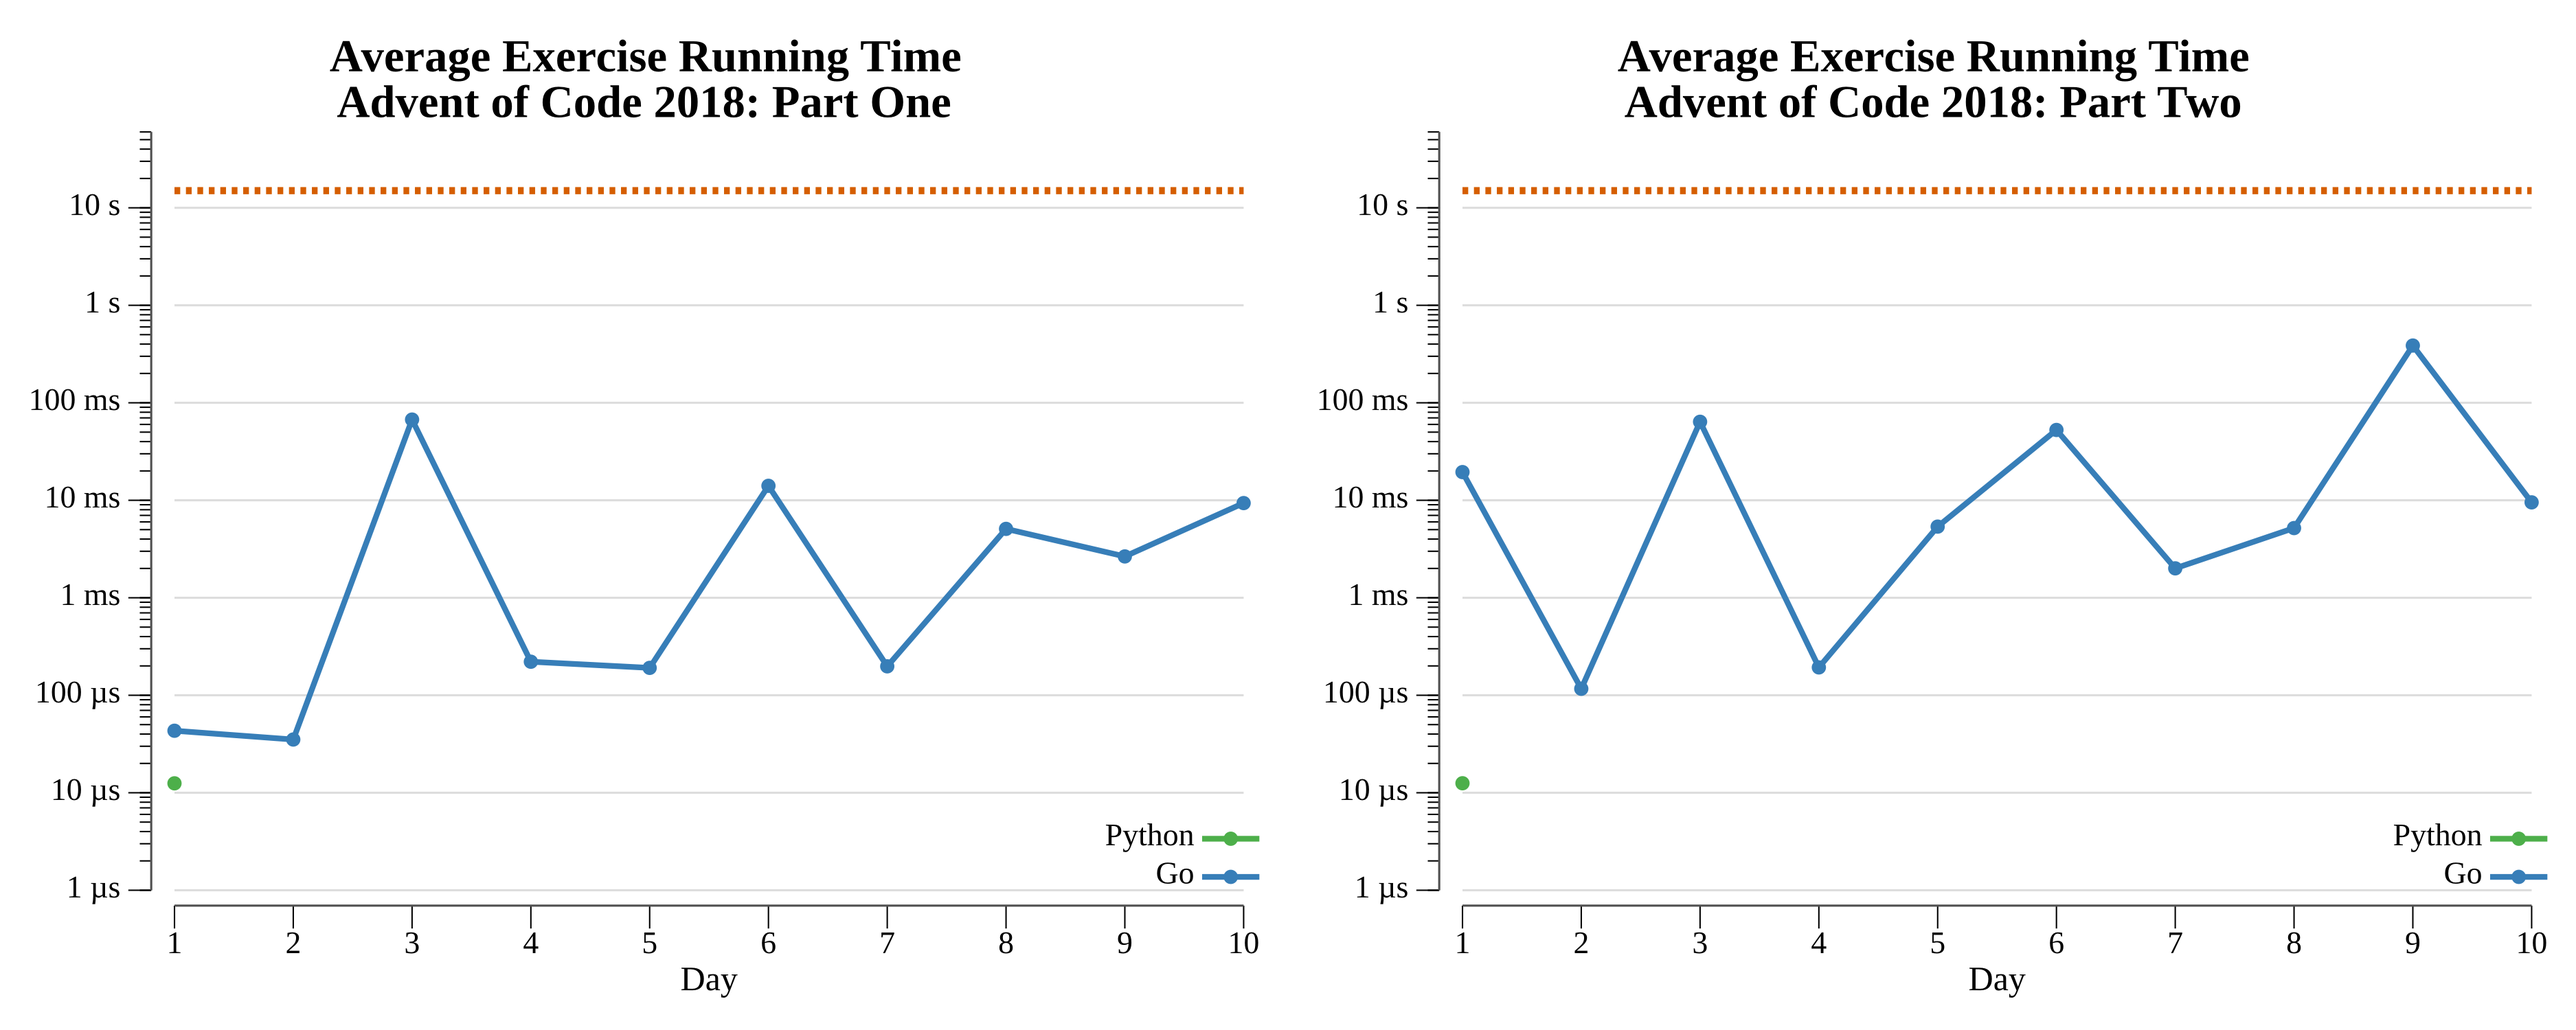
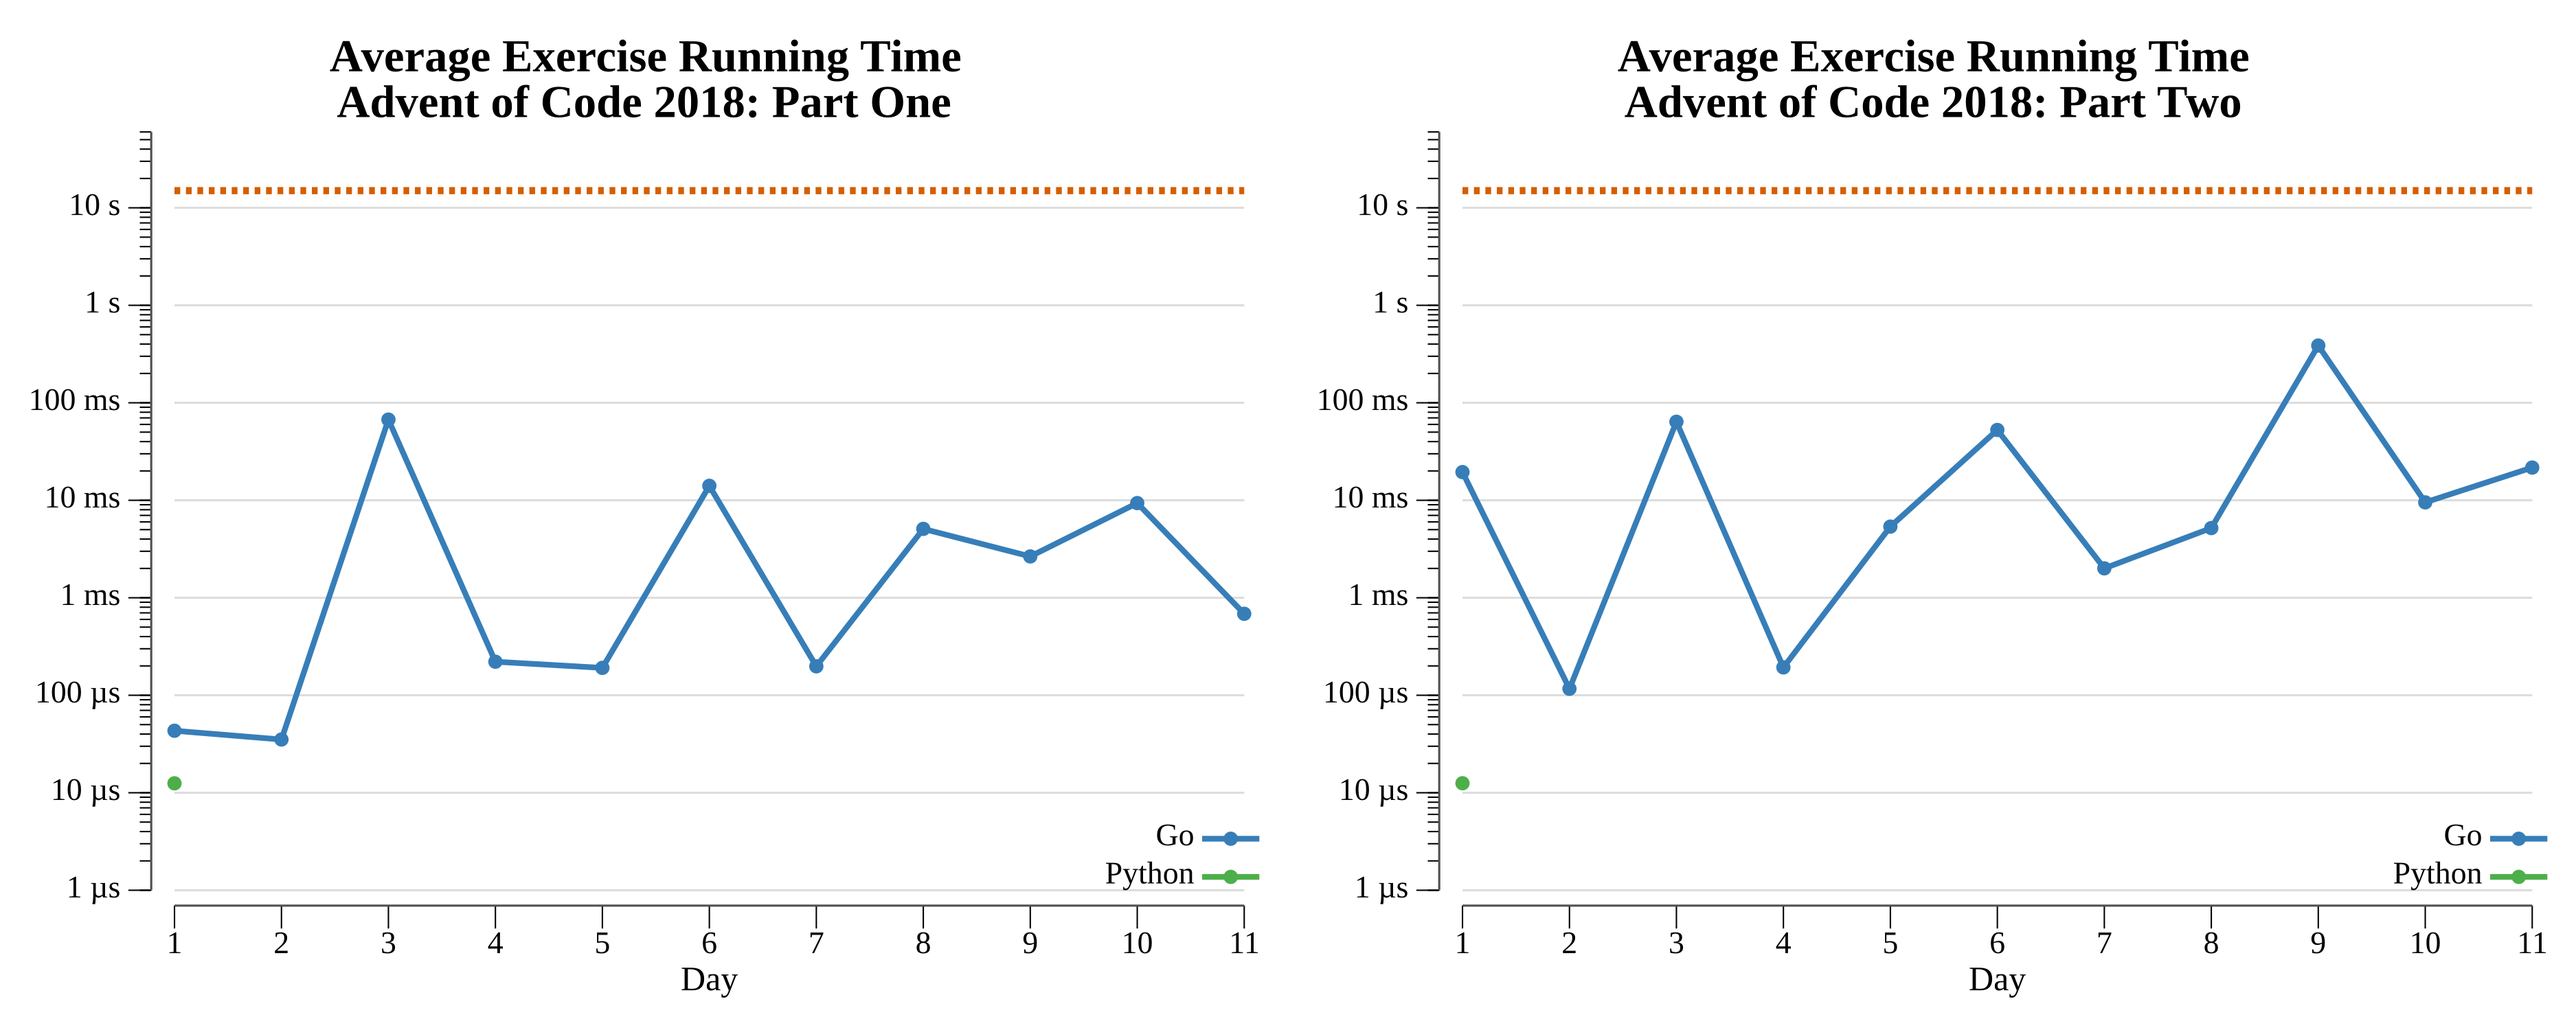
2018 day 11

diff --git a/exercises/2018/11-chronalCharge/go/vis.go b/exercises/2018/11-chronalCharge/go/vis.go
@@ -1,0 +1,127 @@
+package exercises
+
+import (
+	"fmt"
+	"image"
+	"image/color"
+	"image/png"
+	"os"
+	"path/filepath"
+
+	"golang.org/x/image/font"
+	"golang.org/x/image/font/basicfont"
+	"golang.org/x/image/math/fixed"
+)
+
+// Vis renders the 300×300 fuel-cell grid as a power heatmap: each cell's
+// brightness rises with its power level (from -5 up to 4). The Part One 3×3 square
+// and the Part Two best-of-any-size square are outlined and labeled in two
+// colorblind-safe accents that also differ in brightness, so both boxes and the
+// underlying texture stay legible in grayscale.
+func (e Exercise) Vis(instr, outdir string) error {
+	serial, err := parseSerial(instr)
+	if err != nil {
+		return err
+	}
+
+	sat := summedAreaTable(serial)
+
+	// Part One winner (3×3) and Part Two winner (best of any size).
+	p1x, p1y, _ := best(sat, 3)
+	b2x, b2y, b2s, b2sum := 0, 0, 0, -1<<62
+	for size := 1; size <= gridSize; size++ {
+		x, y, sum := best(sat, size)
+		if sum > b2sum {
+			b2sum, b2x, b2y, b2s = sum, x, y, size
+		}
+	}
+
+	const (
+		scale  = 2 // pixels per cell
+		margin = 16
+		topPad = 24
+	)
+	plot := gridSize * scale
+	W := plot + 2*margin
+	H := plot + 2*margin + topPad
+
+	img := image.NewRGBA(image.Rect(0, 0, W, H))
+
+	bg := color.RGBA{0x08, 0x0a, 0x0e, 0xff}
+	white := color.RGBA{0xf0, 0xf4, 0xfa, 0xff}
+	// Okabe-Ito accents: sky blue (Part One), vermillion (Part Two).
+	p1c := color.RGBA{0x56, 0xB4, 0xE9, 0xff}
+	p2c := color.RGBA{0xD5, 0x5E, 0x00, 0xff}
+
+	set := func(x, y int, c color.RGBA) {
+		if x >= 0 && y >= 0 && x < W && y < H {
+			img.SetRGBA(x, y, c)
+		}
+	}
+	fill := func(x0, y0, x1, y1 int, c color.RGBA) {
+		for y := y0; y < y1; y++ {
+			for x := x0; x < x1; x++ {
+				set(x, y, c)
+			}
+		}
+	}
+
+	fill(0, 0, W, H, bg)
+
+	// Heatmap: power ranges -5..4, mapped to a 0..255 brightness ramp.
+	for gy := 1; gy <= gridSize; gy++ {
+		for gx := 1; gx <= gridSize; gx++ {
+			p := cellPower(gx, gy, serial)
+			v := uint8((p + 5) * 255 / 9)
+			c := color.RGBA{v, v, v, 0xff}
+			px := margin + (gx-1)*scale
+			py := margin + topPad + (gy-1)*scale
+			fill(px, py, px+scale, py+scale, c)
+		}
+	}
+
+	// Outline a square with a dark halo so the accent stays visible over any
+	// brightness in the heatmap, then the colored border on top. `thick` widens
+	// the border so the two boxes are also distinguishable by line weight in
+	// grayscale, not hue alone.
+	halo := color.RGBA{0x00, 0x00, 0x00, 0xff}
+	box := func(gx, gy, size int, c color.RGBA, thick int) {
+		x0 := margin + (gx-1)*scale
+		y0 := margin + topPad + (gy-1)*scale
+		x1 := x0 + size*scale
+		y1 := y0 + size*scale
+		ring := func(pad int, col color.RGBA) {
+			for x := x0 - pad; x <= x1+pad; x++ {
+				set(x, y0-pad, col)
+				set(x, y1+pad, col)
+			}
+			for y := y0 - pad; y <= y1+pad; y++ {
+				set(x0-pad, y, col)
+				set(x1+pad, y, col)
+			}
+		}
+		ring(thick+1, halo) // dark outer halo
+		for t := 0; t <= thick; t++ {
+			ring(t, c) // colored border of the given weight
+		}
+	}
+
+	box(b2x, b2y, b2s, p2c, 2) // Part Two: thicker border, drawn first
+	box(p1x, p1y, 3, p1c, 1)   // Part One: thinner border
+
+	drawText11(img, fmt.Sprintf("power heatmap  |  P1 3x3 @ %d,%d  |  P2 %dx%d @ %d,%d",
+		p1x, p1y, b2s, b2s, b2x, b2y), margin, 16, white)
+
+	f, err := os.Create(filepath.Join(outdir, "chronal-charge.png"))
+	if err != nil {
+		return err
+	}
+	defer f.Close()
+
+	return png.Encode(f, img)
+}
+
+func drawText11(img *image.RGBA, s string, x, y int, c color.RGBA) {
+	d := &font.Drawer{Dst: img, Src: image.NewUniform(c), Face: basicfont.Face7x13, Dot: fixed.P(x, y)}
+	d.DrawString(s)
+}

diff --git a/exercises/2018/11-chronalCharge/go/exercise.go b/exercises/2018/11-chronalCharge/go/exercise.go
@@ -1,0 +1,100 @@
+package exercises
+
+import (
+	"fmt"
+	"strconv"
+	"strings"
+
+	"github.com/asphaltbuffet/advent-of-code/internal/common"
+)
+
+// Exercise for Advent of Code 2018 day 11.
+type Exercise struct {
+	common.BaseExercise
+}
+
+const gridSize = 300
+
+// cellPower is the fuel cell's power level at (x, y) for the given serial.
+func cellPower(x, y, serial int) int {
+	rackID := x + 10
+	power := (rackID*y + serial) * rackID
+	return (power/100)%10 - 5
+}
+
+// summedAreaTable builds a prefix-sum table so any square's total power is an O(1)
+// lookup. sat[y][x] holds the sum of all cells from (1,1) to (x,y) inclusive.
+func summedAreaTable(serial int) [][]int {
+	sat := make([][]int, gridSize+1)
+	for i := range sat {
+		sat[i] = make([]int, gridSize+1)
+	}
+
+	for y := 1; y <= gridSize; y++ {
+		for x := 1; x <= gridSize; x++ {
+			sat[y][x] = cellPower(x, y, serial) + sat[y-1][x] + sat[y][x-1] - sat[y-1][x-1]
+		}
+	}
+
+	return sat
+}
+
+// squareSum totals the size×size square whose top-left corner is (x, y).
+func squareSum(sat [][]int, x, y, size int) int {
+	x2, y2 := x+size-1, y+size-1
+	return sat[y2][x2] - sat[y-1][x2] - sat[y2][x-1] + sat[y-1][x-1]
+}
+
+// best finds the top-left corner of the highest-power square of the given size.
+func best(sat [][]int, size int) (bx, by, sum int) {
+	sum = -1 << 62
+	for y := 1; y <= gridSize-size+1; y++ {
+		for x := 1; x <= gridSize-size+1; x++ {
+			if s := squareSum(sat, x, y, size); s > sum {
+				sum, bx, by = s, x, y
+			}
+		}
+	}
+	return bx, by, sum
+}
+
+func parseSerial(instr string) (int, error) {
+	return strconv.Atoi(strings.TrimSpace(instr))
+}
+
+// One returns the answer to the first part of the exercise.
+// Answer: 235,16
+func (e Exercise) One(instr string) (any, error) {
+	serial, err := parseSerial(instr)
+	if err != nil {
+		return nil, err
+	}
+
+	sat := summedAreaTable(serial)
+	x, y, _ := best(sat, 3)
+
+	return fmt.Sprintf("%d,%d", x, y), nil
+}
+
+// Two returns the answer to the second part of the exercise.
+// Answer: 236,227,14
+func (e Exercise) Two(instr string) (any, error) {
+	serial, err := parseSerial(instr)
+	if err != nil {
+		return nil, err
+	}
+
+	sat := summedAreaTable(serial)
+
+	// Scan every square size for the single highest-power square. The summed-area
+	// table keeps each square total O(1), so the whole search is O(gridSize^3).
+	bx, by, bSize, bSum := 0, 0, 0, -1<<62
+	for size := 1; size <= gridSize; size++ {
+		x, y, sum := best(sat, size)
+		if sum > bSum {
+			bSum, bx, by, bSize = sum, x, y, size
+		}
+	}
+
+	return fmt.Sprintf("%d,%d,%d", bx, by, bSize), nil
+}

diff --git a/exercises/2018/11-chronalCharge/README.md b/exercises/2018/11-chronalCharge/README.md
@@ -1,0 +1,49 @@
+# [Day 11: Chronal Charge](https://adventofcode.com/2018/day/11)
+
+<!-- [Day 11: Chronal Charge](11-chronalCharge) -->
+
+## Notes
+
+Each cell's power comes from the coordinate-and-serial formula, over a 300×300
+grid. The key structure is a **summed-area table** — a prefix sum where each entry
+holds the total power of the rectangle from `(1,1)` to that cell — so any square's
+total is a four-corner O(1) lookup.
+
+- **Part One** scans every 3×3 square for the largest total and reports its
+  top-left corner.
+- **Part Two** does the same across *all* square sizes 1–300. With the table making
+  each square O(1), the whole search is O(gridSize³) and finishes in a fraction of
+  a second.
+
+## Go
+
+```text
+────────────────────────────────────────
+─     2018 Day 11: Chronal Charge      ─
+────────────────────────────────────────
+
+Solving (Go)…
+1.0:  PASS             0.609ms
+2.0:  PASS            21.233ms
+```
+
+## Python
+
+```text
+    < section intentionally left blank >
+```
+
+## Visualization
+
+The 300×300 grid as a power heatmap — brighter cells carry more power. The
+`rackID` term gives the field its striking vertical-band moiré texture. The Part
+One 3×3 square (thin blue) and the Part Two 14×14 square (thick orange) are
+outlined with a dark halo so they stand out over any brightness; both land in the
+bright high-power band on the right, which is exactly why they win. The boxes
+differ in line weight as well as hue, so the picture reads in grayscale.
+
+![Power heatmap with the winning squares](chronal-charge.png)
+
+## Run Times
+
+![Day 11 run-time graphs](run-times.png)

diff --git a/exercises/2018/README.md b/exercises/2018/README.md
@@ -16,7 +16,7 @@
 | [Day 8: Memory Maneuver](08-memoryManeuver/README.md) |  ★ ★  | [Go](08-memoryManeuver/go) |
 | [Day 9: Marble Mania](09-marbleMania/README.md) |  ★ ★  | [Go](09-marbleMania/go) |
 | [Day 10: The Stars Align](10-theStarsAlign/README.md) |  ★ ★  | [Go](10-theStarsAlign/go) |
-| 11                                                            |  ☆ ☆  |                                |
+| [Day 11: Chronal Charge](11-chronalCharge/README.md) |  ★ ★  | [Go](11-chronalCharge/go) |
 | 12                                                            |  ☆ ☆  |                                |
 | 13                                                            |  ☆ ☆  |                                |
 | 14                                                            |  ☆ ☆  |                                |
